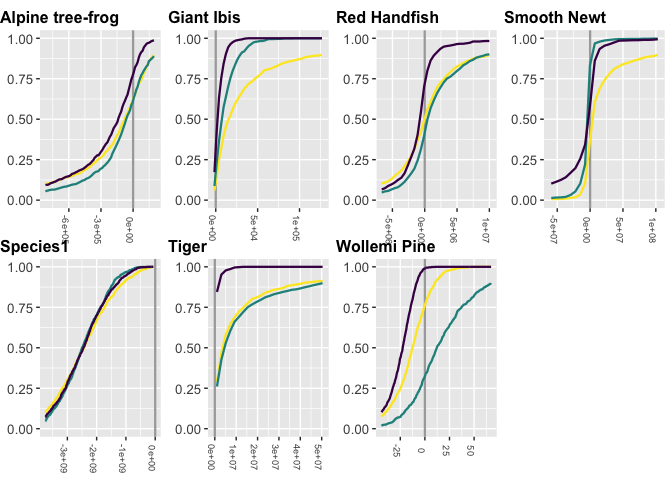
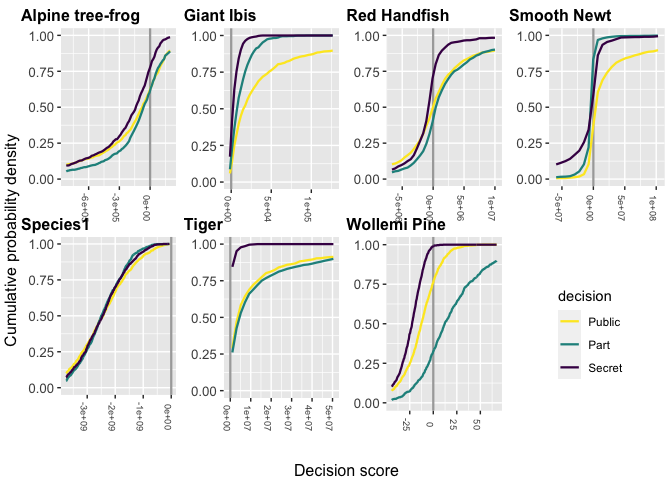
update fig with axis labels and legend

Changed region(s): [[0.0, 0.0, 1.0, 1.0], [0.8438, 0.6562, 0.9375, 0.7812], [0.8125, 0.5938, 0.9062, 0.625]]

diff --git a/publicising_species_discoveries.md b/publicising_species_discoveries.md
@@ -57,6 +57,15 @@
     ## 
     ##     align_plots
 
+    library(gridExtra)
+
+    ## 
+    ## Attaching package: 'gridExtra'
+
+    ## The following object is masked from 'package:dplyr':
+    ## 
+    ##     combine
+
 Load functions
 
     source("functions/calculate.zeta.R")
@@ -942,7 +951,7 @@ Sequential values from min to max along each range
     ## 10 Alpine tree-frog -10665094.
     ## # ℹ 6,990 more rows
 
-Clculate the cumlative density for each decision scenario at each value
+Calculate the cumlative density for each decision scenario at each value
 for each species
 
     zeta_cd_wide <- zeta_ranges %>%
@@ -1169,7 +1178,9 @@ Transform cumulative densitiy to long format for plotting
 
 ![](publicising_species_discoveries_files/figure-markdown_strict/fig2_list-1.png)
 
-    #f2legend <- get_legend(fig2_list[[1]])
+    f2legend <- get_legend(fig2_list[[1]] + guides(col = guide_legend(ncol = 1))) 
+
+    ## Warning: Removed 2739 rows containing missing values (`geom_line()`).
 
     figure_2 <- plot_grid(
       NULL,
@@ -1183,7 +1194,7 @@ Transform cumulative densitiy to long format for plotting
       fig2_list[[5]] + scale_colour_manual(values = viridis(3)[3:1], guide = FALSE),
       fig2_list[[6]] + scale_colour_manual(values = viridis(3)[3:1], guide = FALSE),
       fig2_list[[7]] + scale_colour_manual(values = viridis(3)[3:1], guide = FALSE),
-      #fdlegend,
+      f2legend,
       ncol = 4,
       align = "hv",
       labels = c(
@@ -1204,8 +1215,10 @@ Transform cumulative densitiy to long format for plotting
       label_size = 12,
       vjust = -0.01,
       hjust = 0,
-      rel_heights = c(0.1, 1, 1)
-    )
+      rel_heights = c(0.1, 1, 1),
+      axis.titles = "collect"
+    ) %>%
+      grid.arrange(left = "Cumulative probability density", bottom = "Decision score")
 
     ## Scale for colour is already present.
     ## Adding another scale for colour, which will replace the existing scale.
@@ -1243,22 +1256,36 @@ Transform cumulative densitiy to long format for plotting
 
     ## Warning: Removed 2052 rows containing missing values (`geom_line()`).
 
-    figure_2
+    ## Warning in as_grob.default(plot): Cannot convert object of class character into
+    ## a grob.
+
+    ## Warning: Graphs cannot be vertically aligned unless the axis parameter is set.
+    ## Placing graphs unaligned.
+
+    ## Warning: Graphs cannot be horizontally aligned unless the axis parameter is
+    ## set. Placing graphs unaligned.
 
 ![](publicising_species_discoveries_files/figure-markdown_strict/figure_2-1.png)
 
-    png(
-      filename = "plots/figure_2.png",
-      width = 20,
-      height = 12.5,
-      units = "cm",
-      res = 300
-    )
     figure_2
-    dev.off()
 
-    ## quartz_off_screen 
-    ##                 2
+    ## TableGrob (2 x 2) "arrange": 3 grobs
+    ##   z     cells    name                grob
+    ## 1 1 (1-1,2-2) arrange      gtable[layout]
+    ## 2 2 (2-2,2-2) arrange text[GRID.text.821]
+    ## 3 3 (1-2,1-1) arrange text[GRID.text.822]
+
+    # png(
+    #   filename = "plots/figure_2_x.png",
+    #   width = 20,
+    #   height = 12.5,
+    #   units = "cm",
+    #   res = 300
+    # )
+    # figure_2
+    # dev.off() # some weird thing with gridExtra::grid.arrange makes this not work :shrug:
+
+    ggsave("plots/figure_2.png", plot = figure_2, width = 20, height = 12.5, units = "cm", dpi = 300)
 
 ### Figure s1
 
